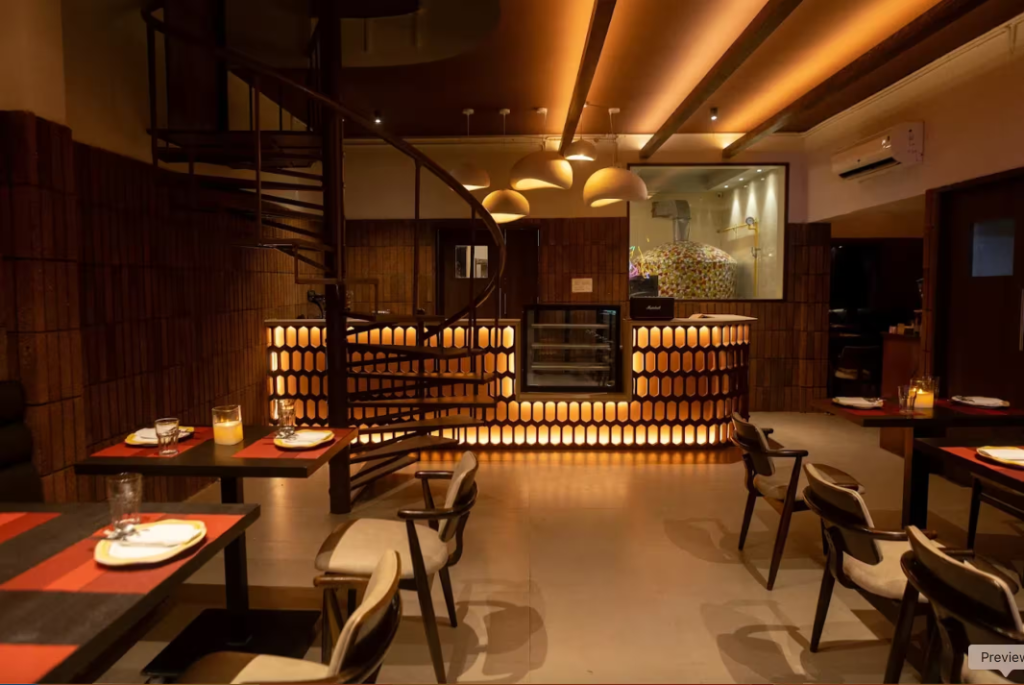
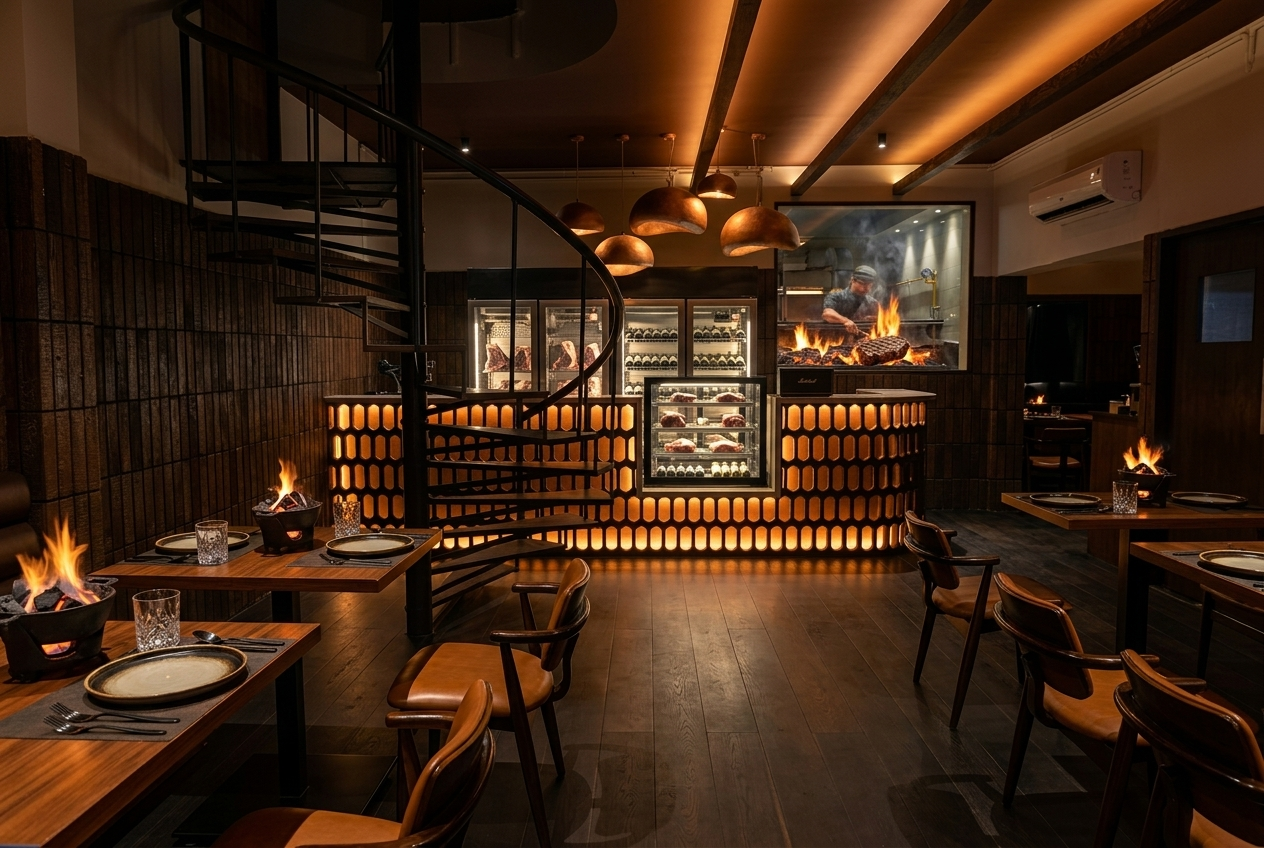
feat: added custom typography image and AI-enhanced DSLR background for hero section

diff --git a/components/Hero.tsx b/components/Hero.tsx
@@ -35,7 +35,14 @@ export default function Hero() {
       <div className="entrance-meta"><span>PORCA & VACA / ALWARPET</span><span>PURE MEAT & FIRE</span></div>
       <div className="entrance-heading">
         <p className="entrance-kicker">BOLD CUTS. SLOW FIRE.</p>
-        <h1 aria-label="Porca and Vaca"><span className="entrance-word" aria-hidden="true"><span>PORCA</span></span><span className="entrance-name-bottom" aria-hidden="true"><em>&</em><span className="entrance-word"><span>VACA.</span></span></span></h1>
+        <h1 aria-label="Porca and Vaca" className="flex items-center">
+          <span className="entrance-word" aria-hidden="true" style={{ width: '100%', maxWidth: '800px', display: 'flex' }}>
+            <span>
+              {/* eslint-disable-next-line @next/next/no-img-element */}
+              <img src="/brand/hero-text.png" alt="Porca & Vaca" className="w-full h-auto object-contain drop-shadow-2xl mix-blend-screen" />
+            </span>
+          </span>
+        </h1>
         <p className="entrance-signature">Serious <em>flavour.</em></p>
       </div>
       <div className="entrance-edge" aria-hidden="true">FIRE / CRAFT / OBSESSION</div>
